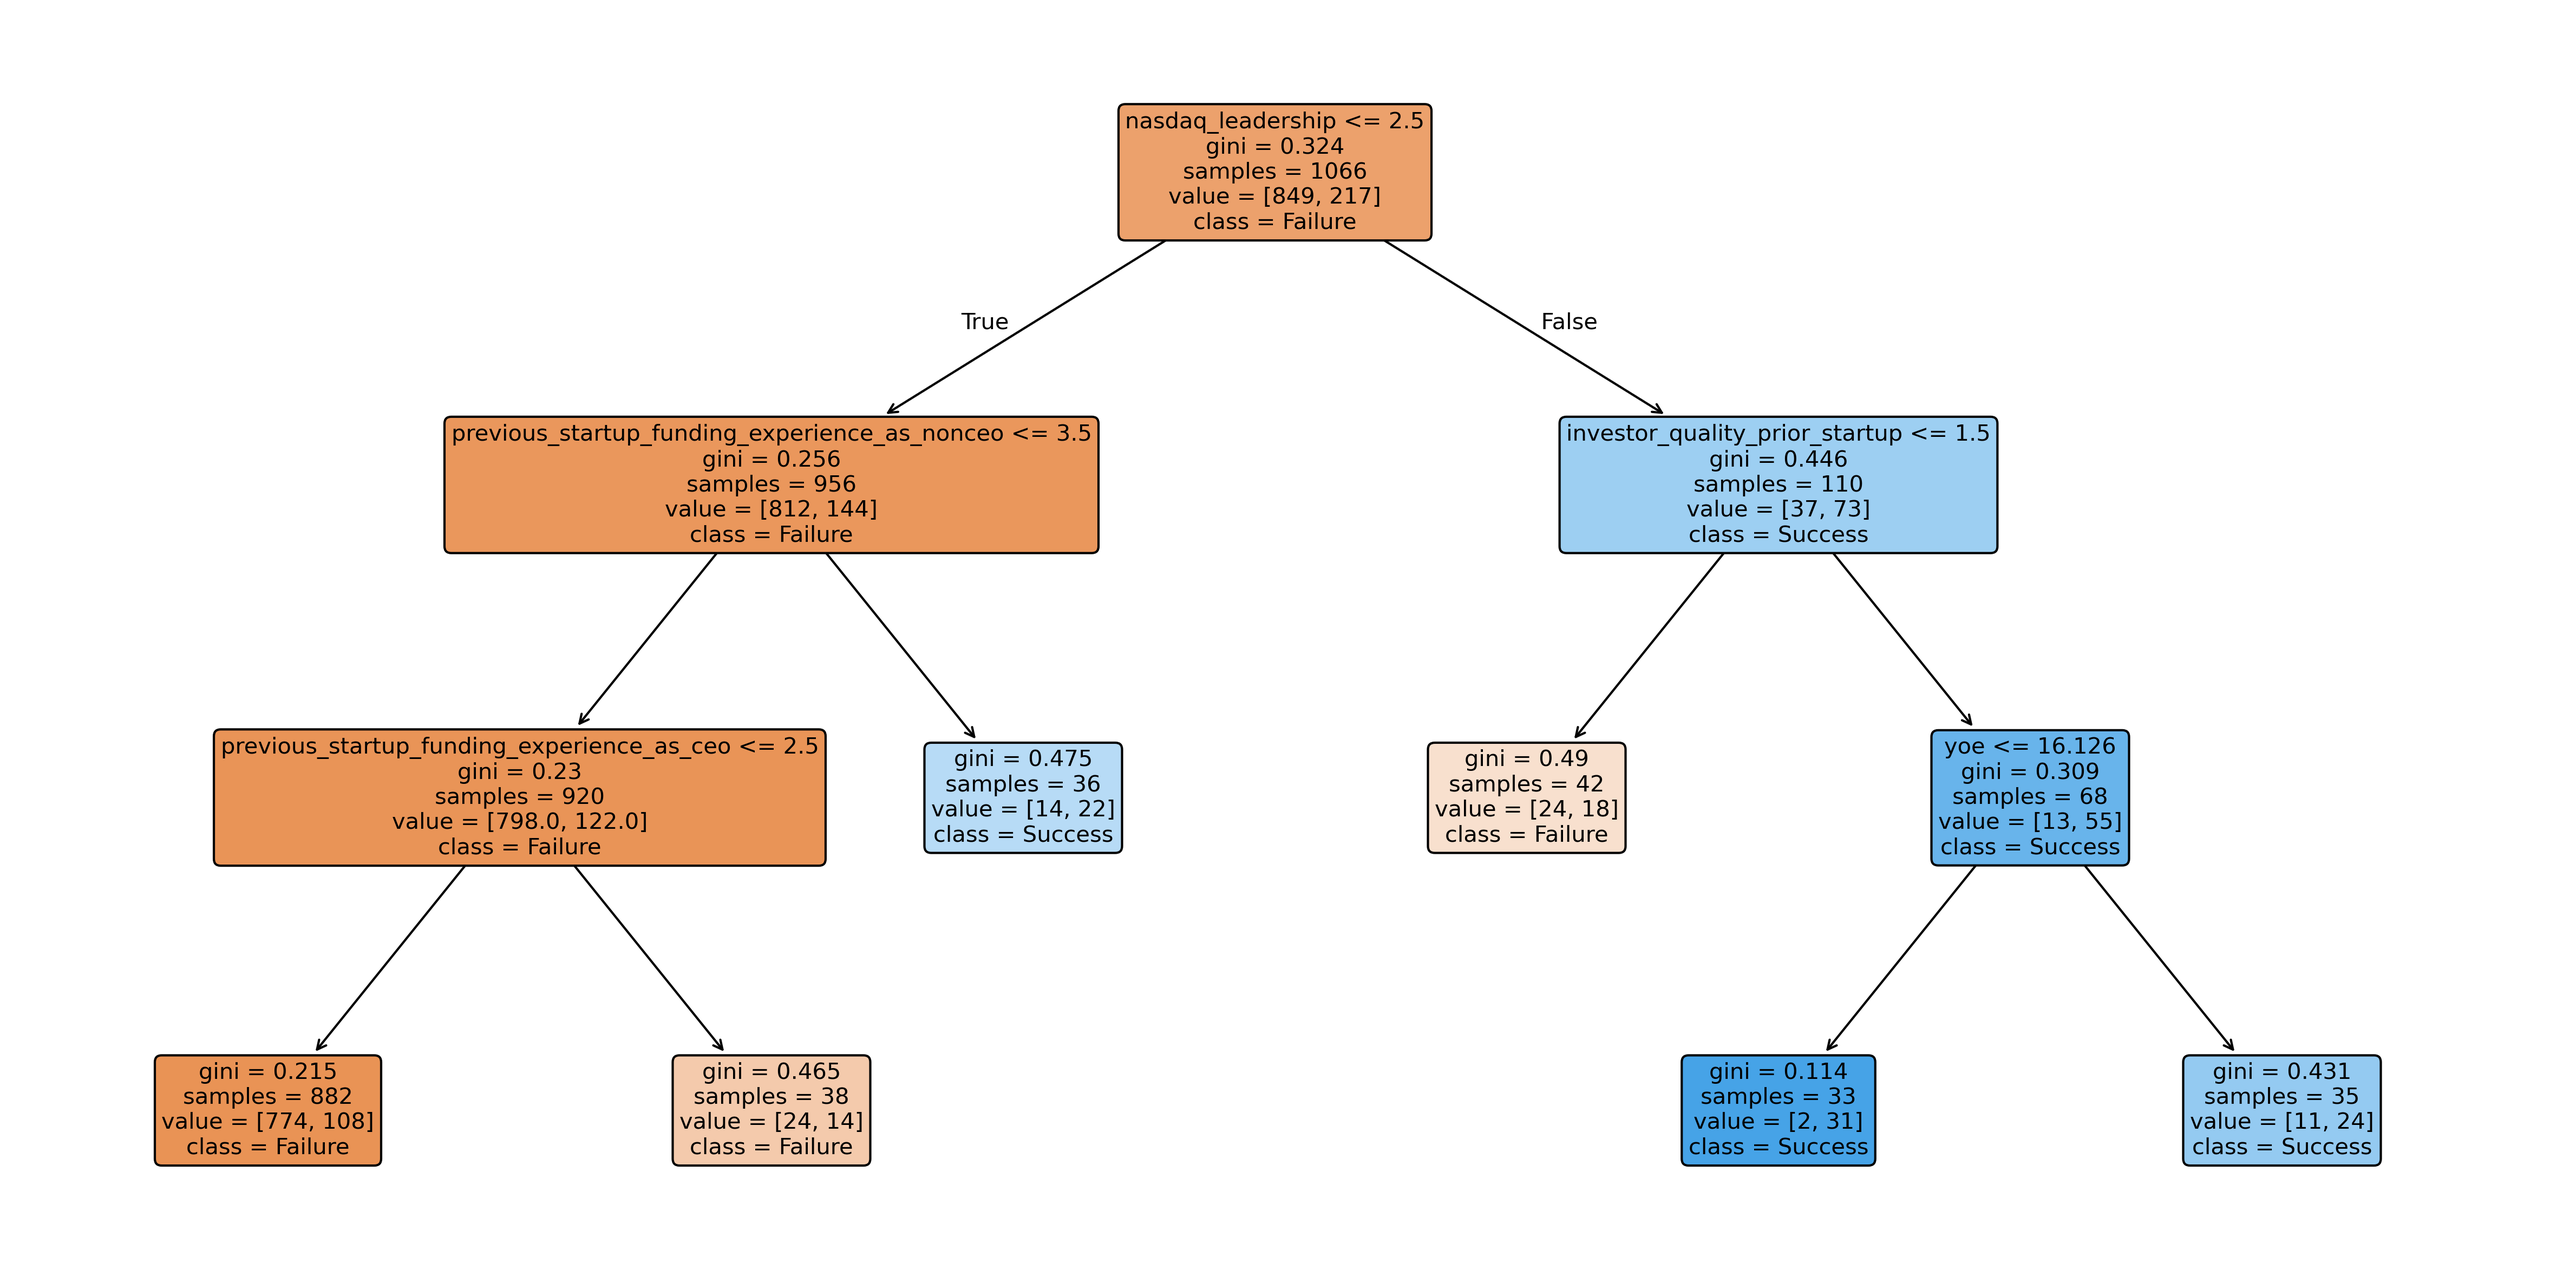
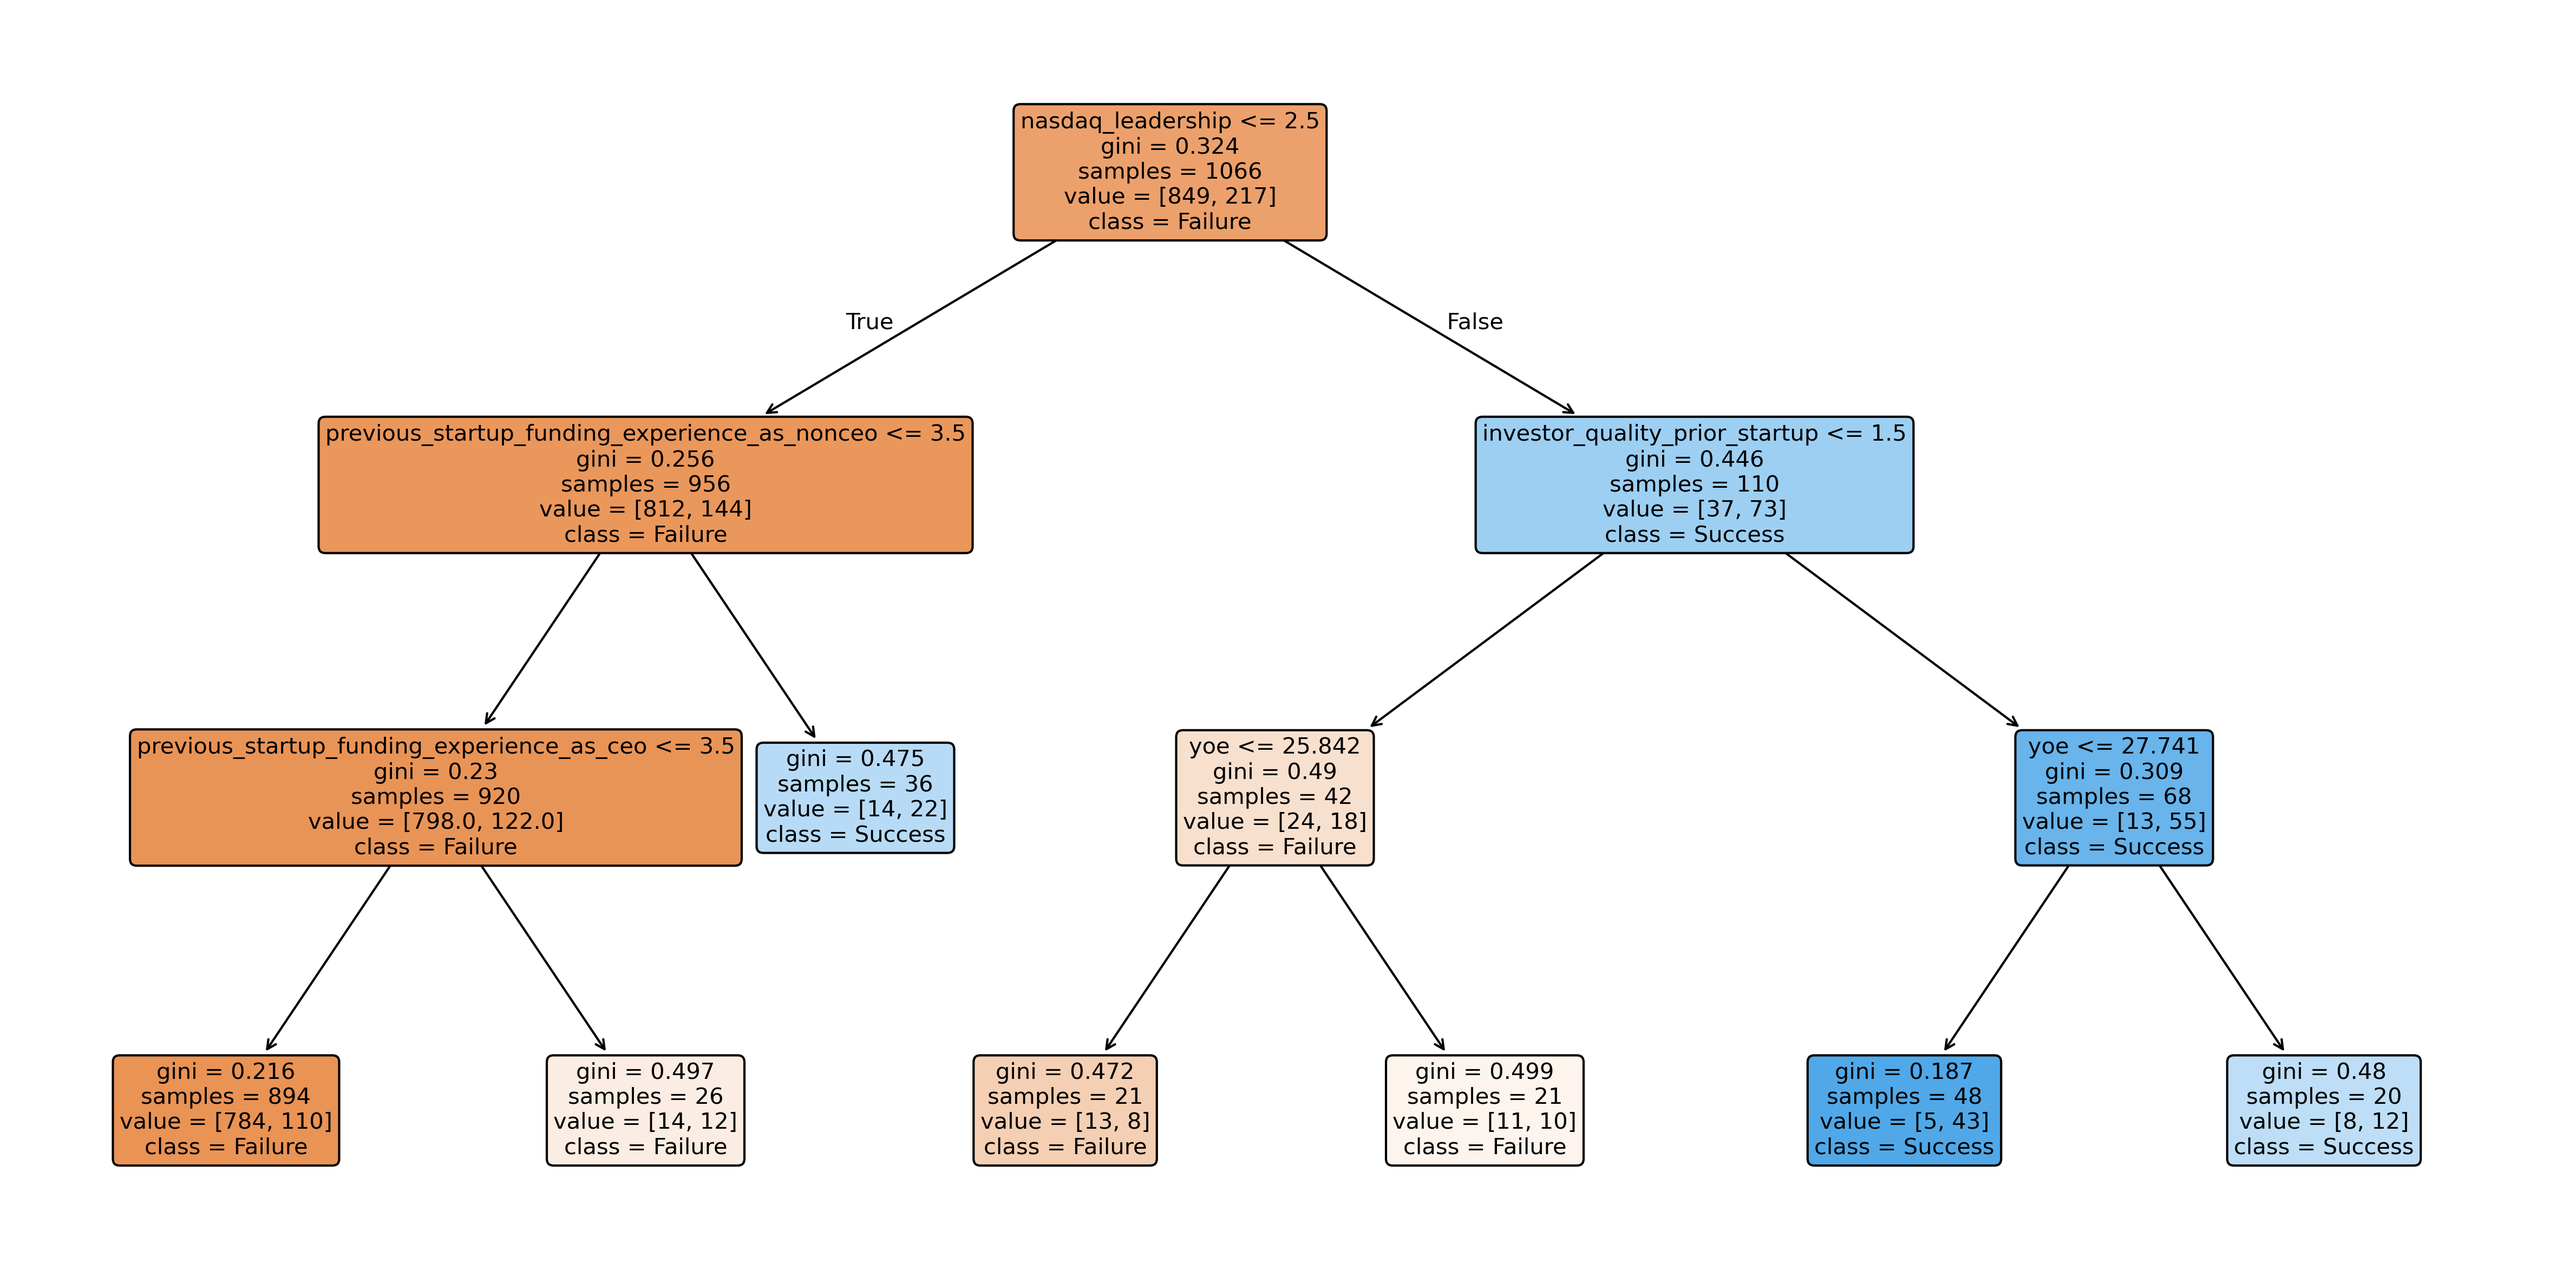
Add files via upload

diff --git a/Founder Anlysis_with_path/Hierarchical Founder Analysis.py b/Founder Anlysis_with_path/Hierarchical Founder Analysis.py
@@ -115,122 +115,117 @@ class TwoStageFounderAnalysis:
         self.subcluster_paths = {}
 
         for cluster in range(self.n_main_clusters):
-            try:
-                print(f"\nStarting to process main cluster {cluster + 1}")
-                subcluster_counter = 1
+            print(f"\nStarting to process main cluster {cluster + 1}")
+            subcluster_counter = 1
 
-                # Get data for this main cluster
-                mask = main_cluster_labels == cluster
-                X_cluster = X[mask]
-                y_cluster = df[self.success_column].values[mask]
-                df_cluster = df[mask]
+            # Get data for this main cluster
+            mask = main_cluster_labels == cluster
+            X_cluster = X[mask]
+            y_cluster = df[self.success_column].values[mask]
+            df_cluster = df[mask]
 
-                print(f"Cluster {cluster + 1} size: {len(X_cluster)}")
+            print(f"Cluster {cluster + 1} size: {len(X_cluster)}")
 
-                if len(X_cluster) < self.min_subcluster_size:
-                    print(f"Cluster {cluster + 1} too small, skipping...")
-                    continue
-
-                # Create decision tree
-                print(f"Creating decision tree for cluster {cluster + 1}")
-                tree = DecisionTreeClassifier(
-                    min_samples_leaf=self.min_subcluster_size,
-                    max_depth=3,
-                    random_state=42
-                )
-
-                if len(np.unique(y_cluster)) < 2:
-                    print(f"Cluster {cluster + 1} has only one class, skipping...")
-                    continue
-
-                print("Fitting decision tree...")
-                tree.fit(X_cluster, y_cluster)
-                self.cluster_trees[cluster] = tree
-
-                print("\nDecision Tree Info:")
-                print(f"Number of nodes: {tree.tree_.node_count}")
-                print(f"Number of features: {tree.tree_.n_features}")
-                print(f"Max depth: {tree.get_depth()}")
-
-                print("Getting leaf node information...")
-                leaf_ids = tree.apply(X_cluster)
-                unique_leaves = np.unique(leaf_ids)
-                print(f"Number of unique leaves: {len(unique_leaves)}")
-                print(f"Leaf IDs: {unique_leaves}")
-
-                print("\nDecision tree rules:")
-                tree_rules = export_text(tree, feature_names=self.feature_names)
-                print(tree_rules)
-
-                # Process each leaf node
-                for leaf in unique_leaves:
-                    print(f"\nProcessing leaf {leaf}")
-                    try:
-                        leaf_mask = leaf_ids == leaf
-                        leaf_samples = X_cluster[leaf_mask]
-                        leaf_y = y_cluster[leaf_mask]
-                        leaf_df = df_cluster[leaf_mask]
-
-                        if len(leaf_samples) < self.min_subcluster_size:
-                            print(f"Leaf size {len(leaf_samples)} too small, skipping...")
-                            continue
-
-                        # Calculate metrics
-                        success_rate = leaf_y.mean()
-                        print(f"Leaf success rate: {success_rate:.3f}")
-
-                        subcluster_id = f"{cluster + 1}.{subcluster_counter}"
-                        print(f"Creating subcluster {subcluster_id}")
-
-                        # Get and store decision path
-                        try:
-                            path = self._get_decision_path(tree, leaf)
-                            transformed_path = self._transform_path_thresholds(path, cluster)
-                            self.subcluster_paths[subcluster_id] = transformed_path
-                        except Exception as e:
-                            print(f"Error in path calculation: {str(e)}")
-                            self.subcluster_paths[subcluster_id] = "Path calculation error"
-
-                        # Calculate feature statistics
-                        feature_stats = self._calculate_feature_stats(leaf_df, df)
-
-                        results.append({
-                            'main_cluster_id': cluster + 1,
-                            'subcluster_id': subcluster_id,
-                            'size': len(leaf_samples),
-                            'success_count': leaf_y.sum(),
-                            'success_rate': success_rate,
-                            'normalized_success_rate': success_rate * (
-                                    self.real_world_success_rate / self.dataset_success_rate),
-                            'significant_features': feature_stats
-                        })
-
-                        subcluster_counter += 1
-                    except Exception as e:
-                        print(f"Error processing leaf {leaf}: {str(e)}")
-
-                viz_tree = deepcopy(tree)
-                for i in range(viz_tree.tree_.node_count):
-                    if viz_tree.tree_.feature[i] >= 0:
-                        feature_idx = viz_tree.tree_.feature[i]
-                        viz_tree.tree_.threshold[i] = (
-                                viz_tree.tree_.threshold[i] * self.scaler.scale_[feature_idx] +
-                                self.scaler.mean_[feature_idx]
-                        )
-                        
-                plt.figure(figsize=(20, 10))
-                plot_tree(viz_tree,
-                          feature_names=self.feature_names,
-                          class_names=['Failure', 'Success'],
-                          filled=True,
-                          rounded=True,
-                          fontsize=10)
-                plt.savefig(f'decision_tree_cluster_{cluster + 1}.png', bbox_inches='tight', dpi=300)
-                plt.close()
-
-            except Exception as e:
-                print(f"Error processing cluster {cluster + 1}: {str(e)}")
+            if len(X_cluster) < self.min_subcluster_size:
+                print(f"Cluster {cluster + 1} too small, skipping...")
                 continue
+
+            # Create decision tree
+            print(f"Creating decision tree for cluster {cluster + 1}")
+            tree = DecisionTreeClassifier(
+                min_samples_leaf=self.min_subcluster_size,
+                max_depth=3,
+                random_state=42
+            )
+
+            if len(np.unique(y_cluster)) < 2:
+                print(f"Cluster {cluster + 1} has only one class, skipping...")
+                continue
+
+            print("Fitting decision tree...")
+            tree.fit(X_cluster, y_cluster)
+            self.cluster_trees[cluster] = tree
+
+            print("\nDecision Tree Info:")
+            print(f"Number of nodes: {tree.tree_.node_count}")
+            print(f"Number of features: {tree.tree_.n_features}")
+            print(f"Max depth: {tree.get_depth()}")
+
+            print("Getting leaf node information...")
+            leaf_ids = tree.apply(X_cluster)
+            unique_leaves = np.unique(leaf_ids)
+            print(f"Number of unique leaves: {len(unique_leaves)}")
+            print(f"Leaf IDs: {unique_leaves}")
+
+            print("\nDecision tree rules:")
+            tree_rules = export_text(tree, feature_names=self.feature_names)
+            print(tree_rules)
+
+            # Process each leaf node
+            for leaf in unique_leaves:
+                print(f"\nProcessing leaf {leaf}")
+                try:
+                    leaf_mask = leaf_ids == leaf
+                    leaf_samples = X_cluster[leaf_mask]
+                    leaf_y = y_cluster[leaf_mask]
+                    leaf_df = df_cluster[leaf_mask]
+
+                    if len(leaf_samples) < self.min_subcluster_size:
+                        print(f"Leaf size {len(leaf_samples)} too small, skipping...")
+                        continue
+
+                    # Calculate metrics
+                    success_rate = leaf_y.mean()
+                    print(f"Leaf success rate: {success_rate:.3f}")
+
+                    subcluster_id = f"{cluster + 1}.{subcluster_counter}"
+                    print(f"Creating subcluster {subcluster_id}")
+
+                    # Get and store decision path
+                    try:
+                        path = self._get_decision_path(tree, leaf)
+                        transformed_path = self._transform_path_thresholds(path, cluster)
+                        self.subcluster_paths[subcluster_id] = transformed_path
+                    except Exception as e:
+                        print(f"Error in path calculation: {str(e)}")
+                        self.subcluster_paths[subcluster_id] = "Path calculation error"
+
+                    # Calculate feature statistics
+                    feature_stats = self._calculate_feature_stats(leaf_df, df)
+
+                    results.append({
+                        'main_cluster_id': cluster + 1,
+                        'subcluster_id': subcluster_id,
+                        'size': len(leaf_samples),
+                        'success_count': leaf_y.sum(),
+                        'success_rate': success_rate,
+                        'normalized_success_rate': success_rate * (
+                                self.real_world_success_rate / self.dataset_success_rate),
+                        'significant_features': feature_stats
+                    })
+
+                    subcluster_counter += 1
+                except Exception as e:
+                    print(f"Error processing leaf {leaf}: {str(e)}")
+
+            viz_tree = deepcopy(tree)
+            for i in range(viz_tree.tree_.node_count):
+                if viz_tree.tree_.feature[i] >= 0:
+                    feature_idx = viz_tree.tree_.feature[i]
+                    viz_tree.tree_.threshold[i] = (
+                            viz_tree.tree_.threshold[i] * self.scaler.scale_[feature_idx] +
+                            self.scaler.mean_[feature_idx]
+                    )
+
+            plt.figure(figsize=(20, 10))
+            plot_tree(viz_tree,
+                      feature_names=self.feature_names,
+                      class_names=['Failure', 'Success'],
+                      filled=True,
+                      rounded=True,
+                      fontsize=10)
+            plt.savefig(f'decision_tree_cluster_{cluster + 1}.png', bbox_inches='tight', dpi=300)
+            plt.close()
 
         print("\nSubcluster creation completed")
         print(f"Total number of subclusters created: {len(results)}")
@@ -477,57 +472,6 @@ class TwoStageFounderAnalysis:
 
         return main_summary, sub_summary
 
-    def get_decision_path(self, tree, feature_names, leaf_id):
-        """Get decision path to a specific leaf node with sample counts and purity at each step"""
-        n_nodes = tree.tree_.node_count
-        children_left = tree.tree_.children_left
-        children_right = tree.tree_.children_right
-        feature = tree.tree_.feature
-        threshold = tree.tree_.threshold
-        values = tree.tree_.value
-        gini = tree.tree_.impurity
-
-        # Find path from root to target leaf node
-        path = []
-        node_id = 0  # Start from root
-        current_path = []
-
-        while node_id != leaf_id:
-            # Get current node information
-            fail_samples = int(values[node_id][0][0])
-            success_samples = int(values[node_id][0][1])
-            current_gini = gini[node_id]
-
-            # Get feature name and threshold for current node
-            feature_idx = feature[node_id]
-            feature_name = feature_names[feature_idx]
-
-            original_threshold = (
-                    threshold[node_id] * self.scaler.scale_[feature_idx] +
-                    self.scaler.mean_[feature_idx]
-            )
-
-            # Create node info
-            node_info = (f"{feature_name} (fail: {fail_samples}, success: {success_samples}, "
-                         f"gini: {current_gini:.3f})")
-            current_path.append(node_info)
-
-            # Determine path direction
-            if leaf_id in self._get_descendants(children_left, node_id):
-                path.append(current_path[-1] + f" <= {original_threshold:.2f}")
-                node_id = children_left[node_id]
-            else:
-                path.append(current_path[-1] + f" > {original_threshold:.2f}")
-                node_id = children_right[node_id]
-
-        # Add leaf node information
-        fail_samples = int(values[leaf_id][0][0])
-        success_samples = int(values[leaf_id][0][1])
-        leaf_gini = gini[leaf_id]
-        path.append(f"Final Node: fail: {fail_samples}, success: {success_samples}, gini: {leaf_gini:.3f}")
-
-        return " → ".join(path)
-
     def _get_descendants(self, children_array, node_id):
         """Get all descendant nodes of a node"""
         descendants = []
@@ -771,52 +715,12 @@ class TwoStageFounderAnalysis:
         print("\nAnalysis complete!")
         return main_cluster_results, subcluster_results, main_cluster_labels
 
-    def extract_decision_path(self, tree, feature_names, leaf_id):
-        """Extract the decision path leading to a specific leaf node"""
-        n_nodes = tree.tree_.node_count
-        children_left = tree.tree_.children_left
-        children_right = tree.tree_.children_right
-        feature = tree.tree_.feature
-        threshold = tree.tree_.threshold
-
-        # Find the path to the leaf
-        node_id = 0  # Start from root
-        path = []
-        while node_id != leaf_id:
-            # Get feature and threshold for this node
-            feature_name = feature_names[feature[node_id]]
-            threshold_value = threshold[node_id]
-
-            # Check if we should go left or right
-            if leaf_id in self._get_all_children(children_left, node_id):
-                path.append(f"{feature_name} <= {threshold_value:.2f}")
-                node_id = children_left[node_id]
-            else:
-                path.append(f"{feature_name} > {threshold_value:.2f}")
-                node_id = children_right[node_id]
-
-        return " AND ".join(path)
-
-    def _get_all_children(self, children_array, node_id):
-        """Helper function to get all children of a node"""
-        children = []
-        to_visit = [children_array[node_id]]
-
-        while to_visit:
-            current = to_visit.pop()
-            if current != -1:  # -1 indicates leaf
-                children.append(current)
-                if current < len(children_array):
-                    to_visit.append(children_array[current])
-
-        return children
-
 
 df = pd.read_csv("(December 2024)_ Founders data - feature_engineered.csv")
 
 analyzer = TwoStageFounderAnalysis(
     n_main_clusters=5,
-    min_subcluster_size=30,
+    min_subcluster_size=20,
     real_world_success_rate=0.019
 
 )
